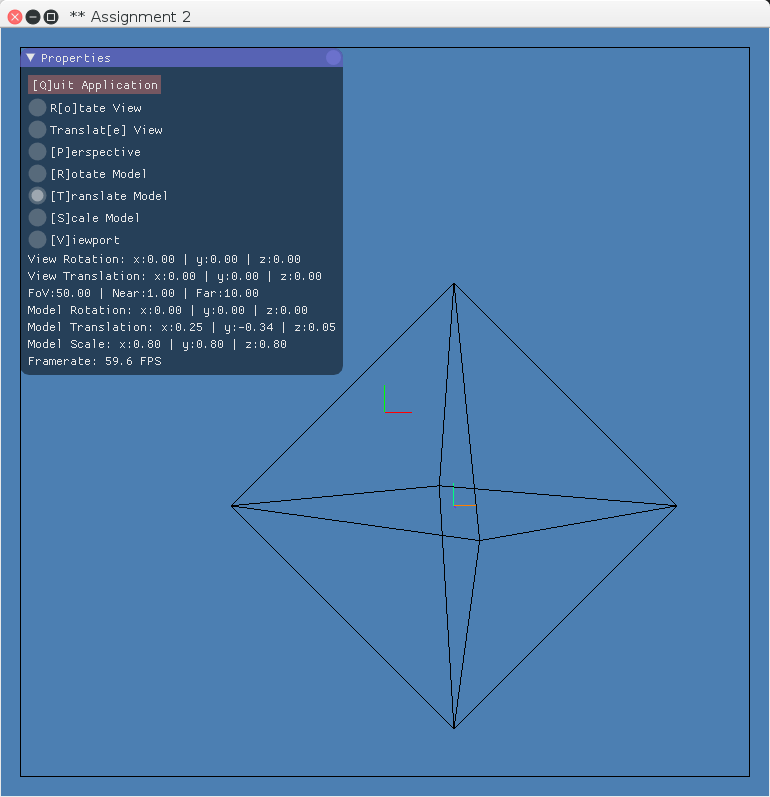
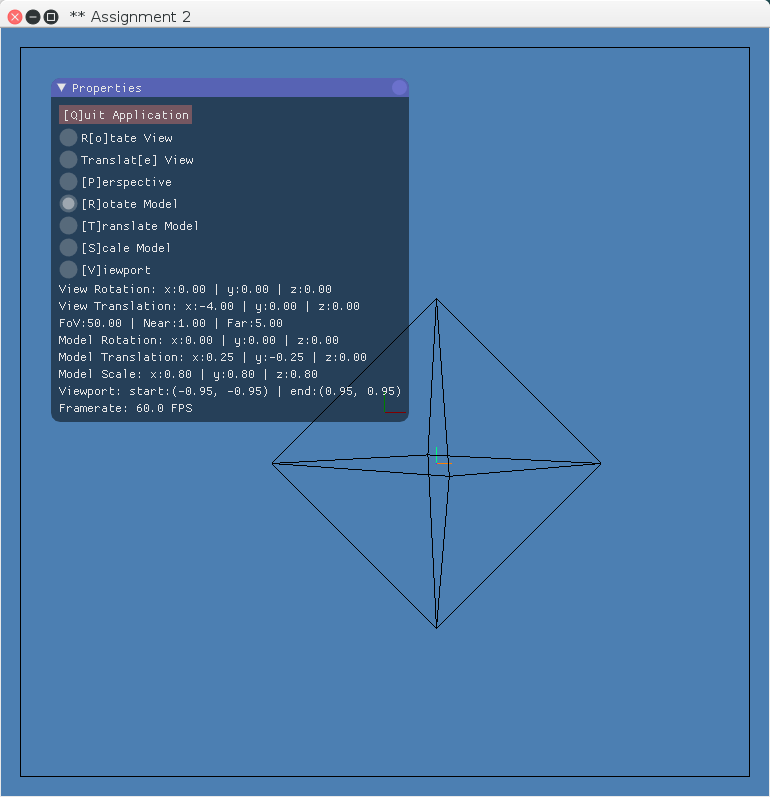
fix display error for initial translation

diff --git a/A2/A2.cpp b/A2/A2.cpp
@@ -103,9 +103,9 @@ void A2::reset() {
     viewRot[0] = 0.0f;
 	viewRot[1] = 0.0f;
 	viewRot[2] = 0.0f;
-	viewTrans[0] = -4.0f;
+	viewTrans[0] = 0.0f;
 	viewTrans[1] = 0.0f;
-	viewTrans[2] = 0.0f;
+	viewTrans[2] = -4.0f;
 	modRot[0] = 0.0f;
 	modRot[1] = 0.0f;
 	modRot[2] = 0.0f;
